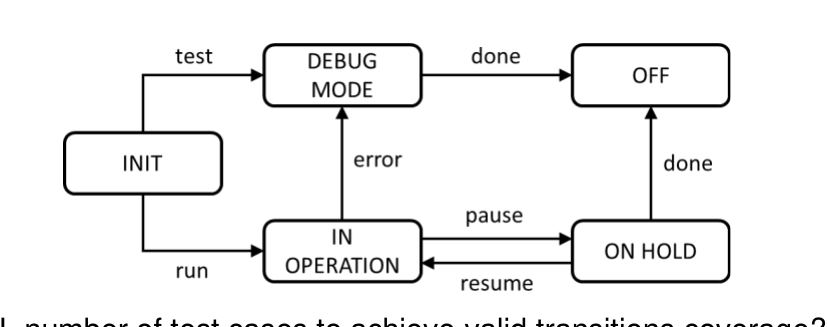
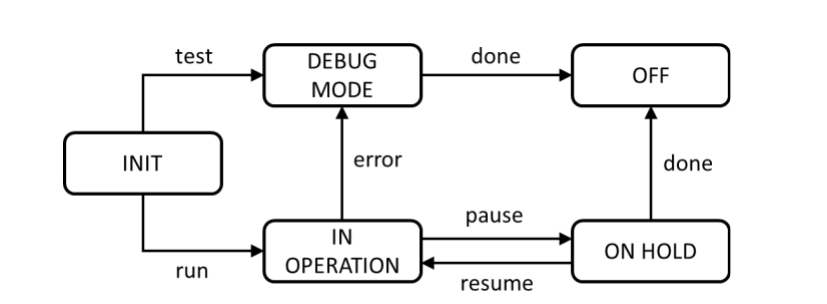
Crop stray question text out of three diagram images
examA_23 had a sliver of the question line below the diagram, and
examB_23 / examC_23 had one above it, left over from cutting the images
out of the PDFs. Only the blank-separated text strips were removed; the
diagrams are untouched. Cache bumped to v5.

diff --git a/sw.js b/sw.js
@@ -1,6 +1,6 @@
 // Offline support: everything is cached on install, then served from cache while
 // a fresh copy is fetched in the background (so updates show up on the next launch).
-const CACHE = 'ctfl-study-v4';
+const CACHE = 'ctfl-study-v5';
 const ASSETS = [
   './',
   './index.html',
